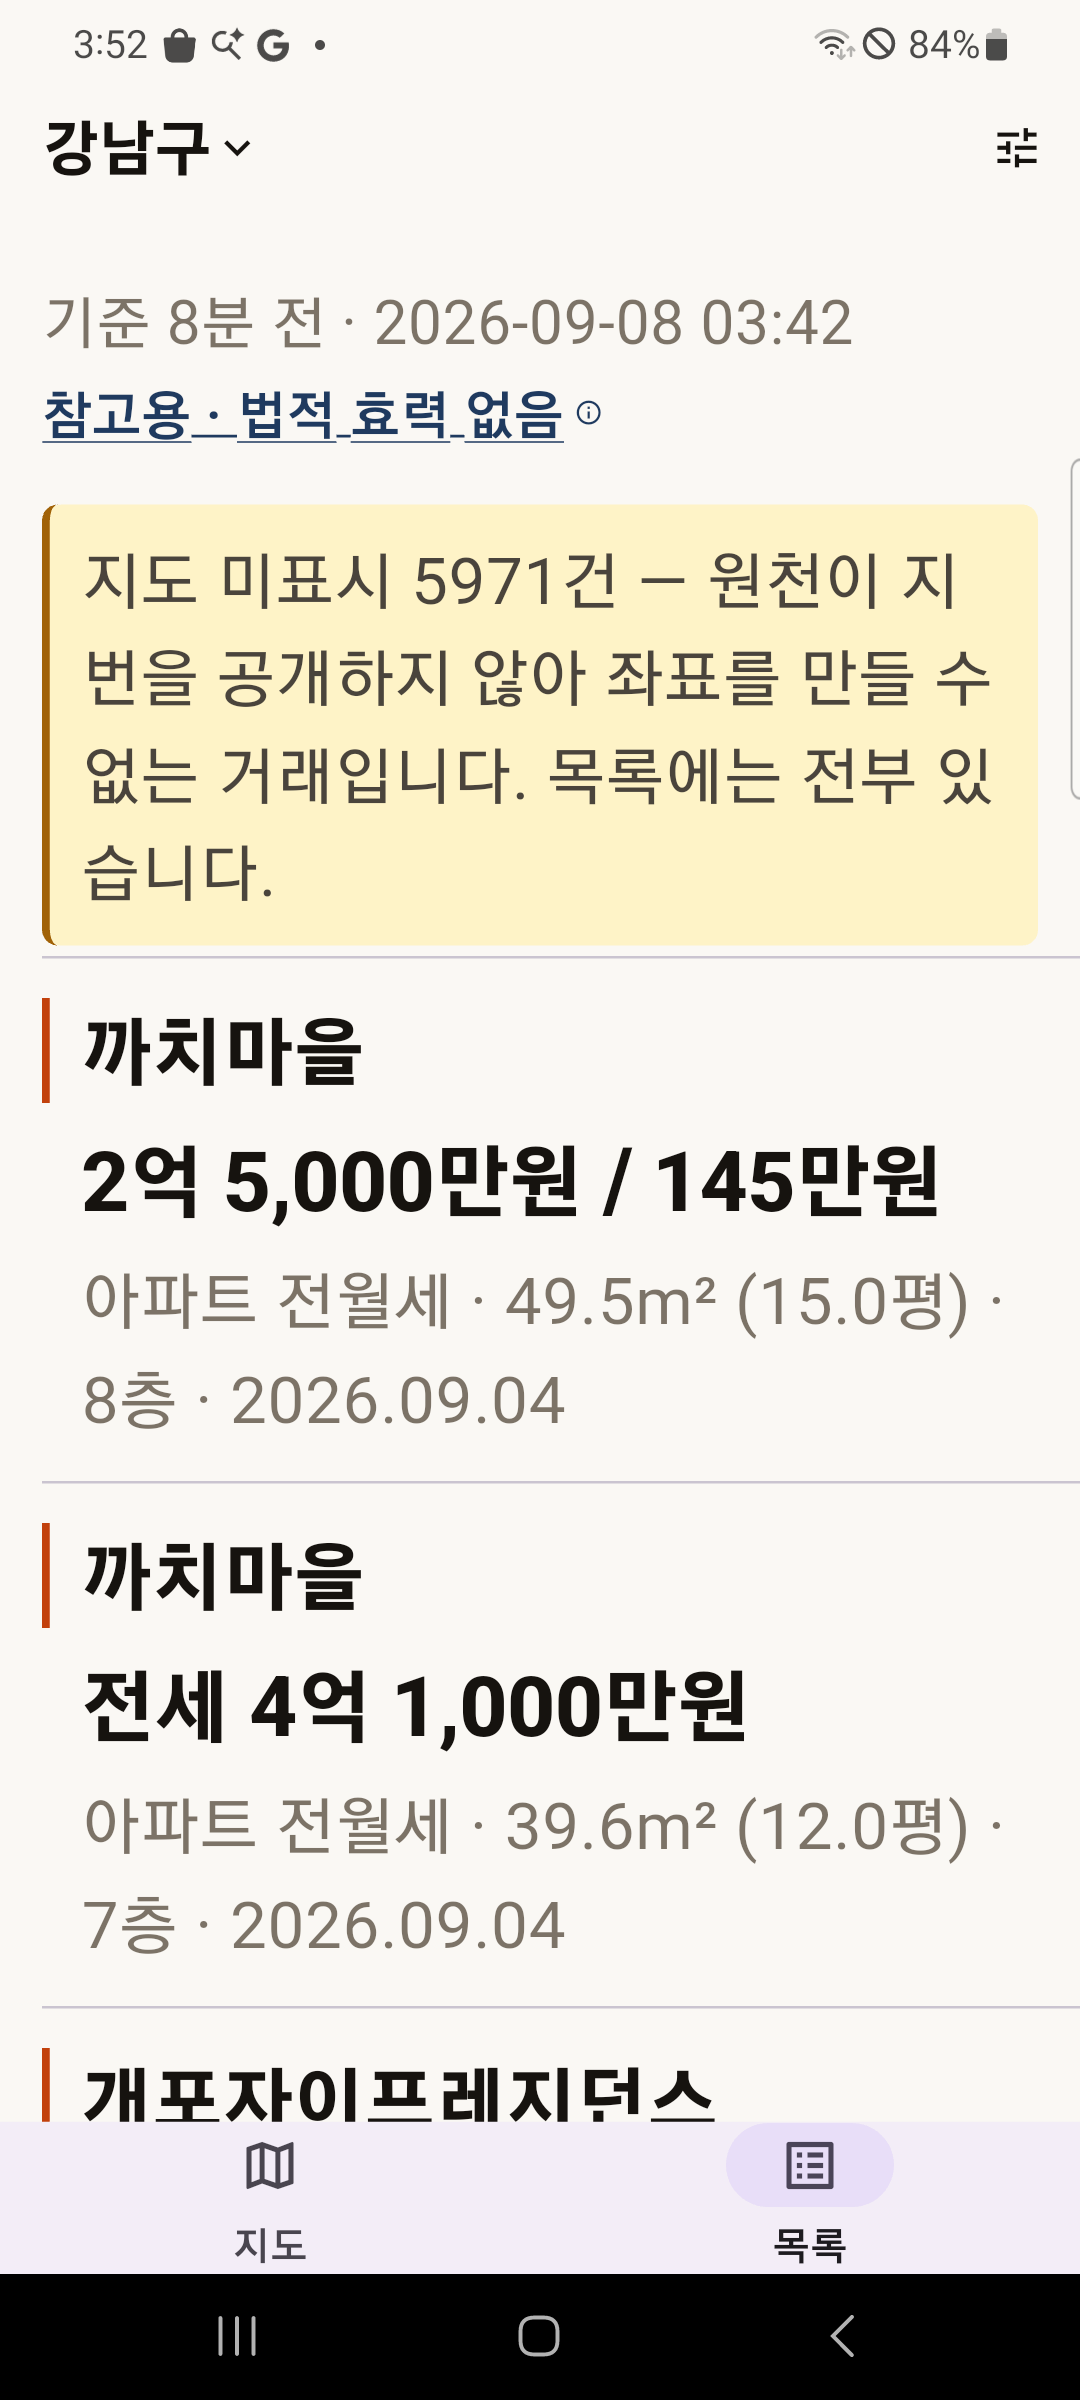
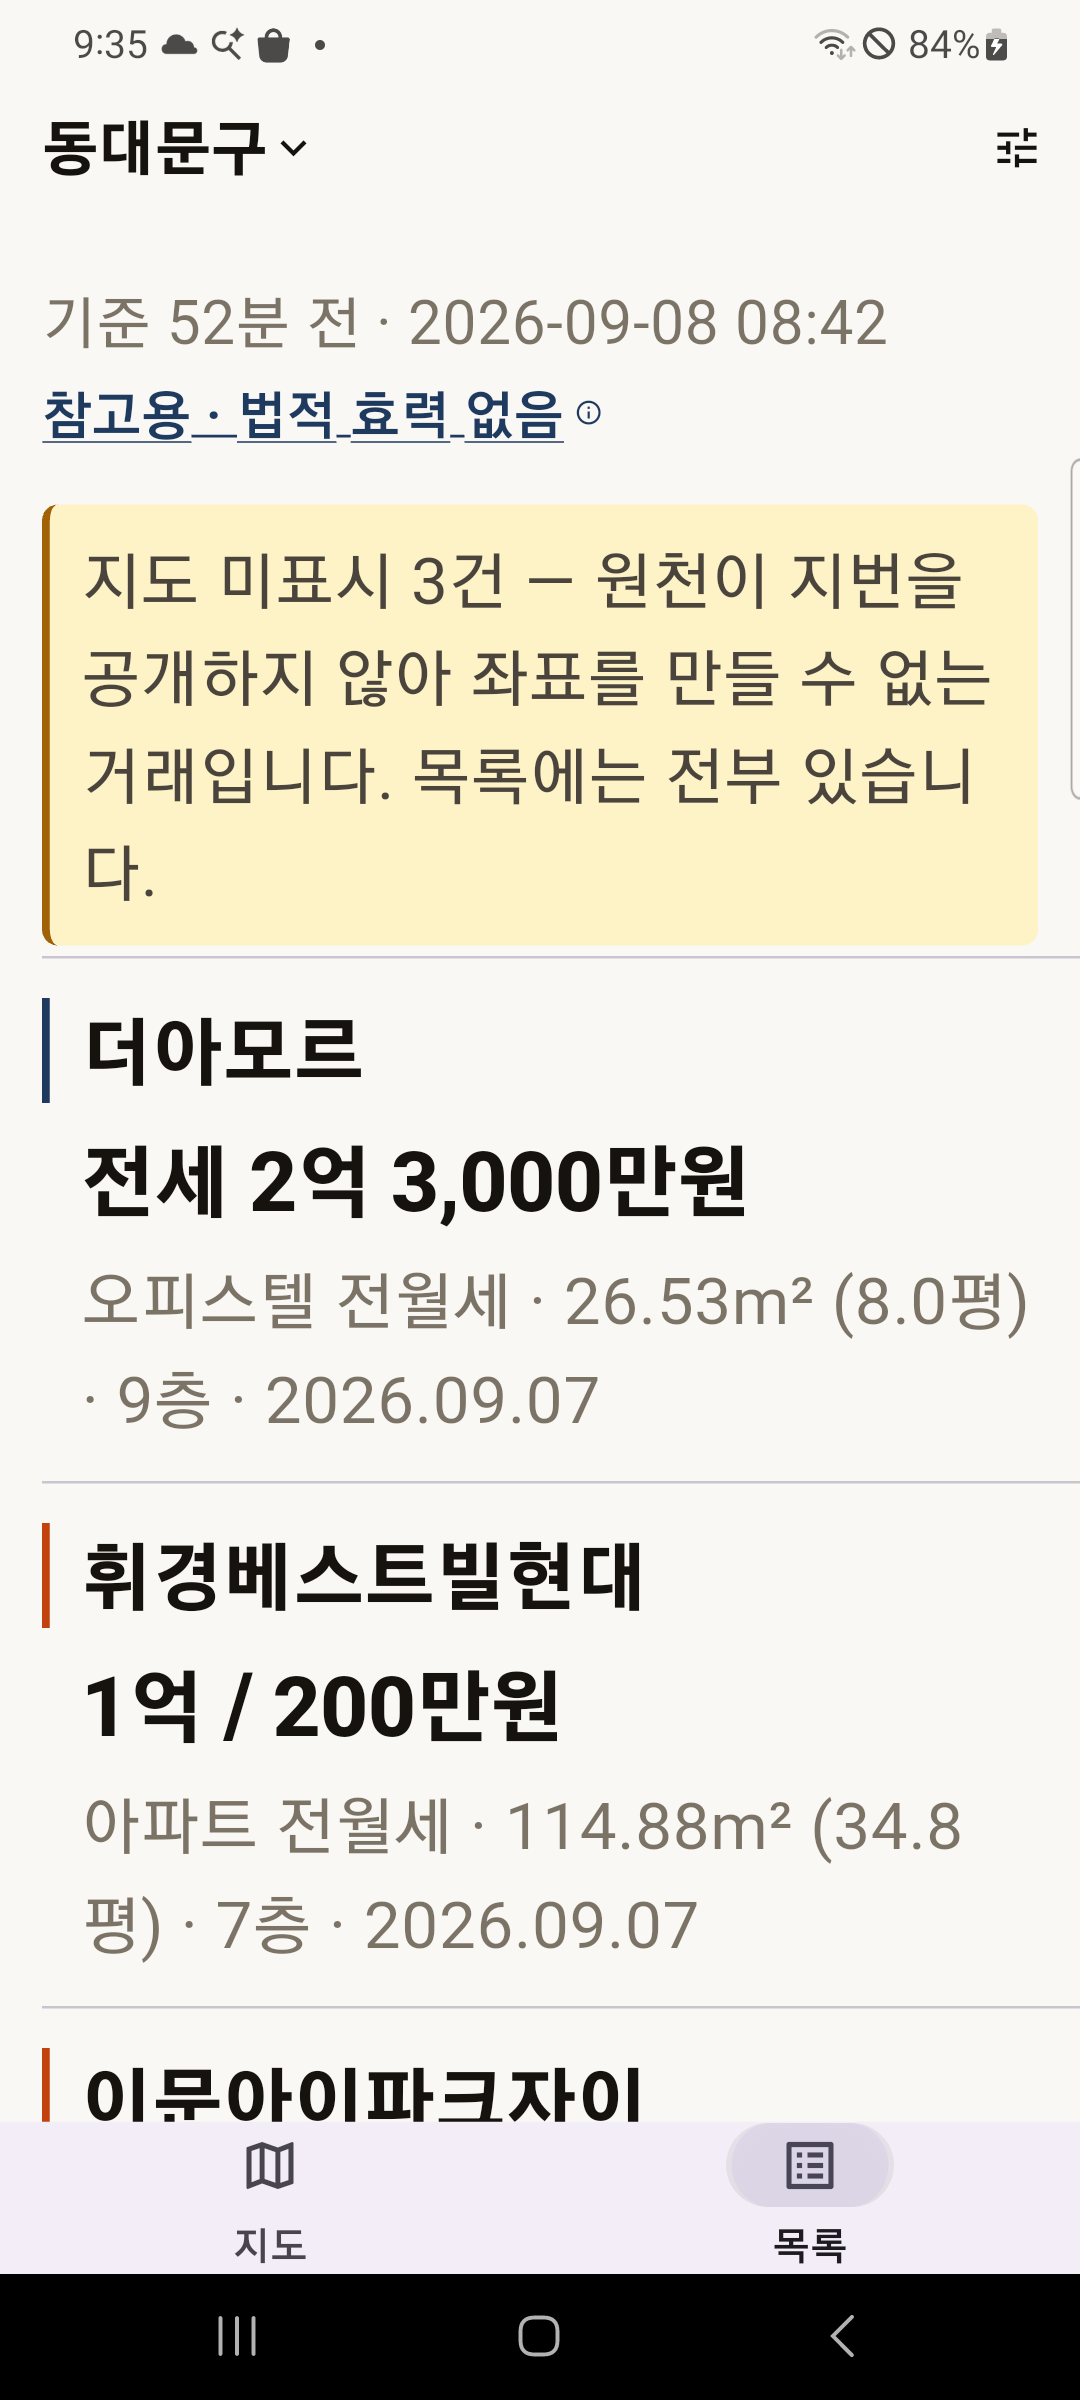
feat: 피처 그래픽(1024x500)을 만들고 스크린샷을 출시 빌드 것으로 바꾼다
Play 스토어 목록에 필수인 피처 그래픽이 없었다. 없으면 등록을 못 넘긴다.
make_icons.py에 넣어 아이콘과 같은 규칙(핀 + 원화 + 격자, 앱 팔레트)으로 그린다.

글자 크기를 눈으로 맞췄더니 부제가 오른쪽 밖으로 잘려 나갔다. fitted_font가
실제 폭을 재서 들어갈 때까지 줄인다 — 문구가 바뀌어도 조용히 넘치지 않는다.
Play가 이 위에 앱 이름을 겹쳐 그릴 수 있어 오른쪽 6%는 비워 둔다.

스크린샷은 **출시 빌드**(R8 난독화)에서 실데이터로 다시 찍었다. 이전 것은
지역 한정 수정 전이라 지도가 남의 동네를 보여줄 수 있는 상태였다.
지역 선택 화면(전국 256개 시군구)을 6번으로 추가했다.

diff --git a/app/tool/make_icons.py b/app/tool/make_icons.py
@@ -56,6 +56,68 @@ def won(draw, size, cx, cy, h, color):
         draw.text((cx, cy), 'W', font=f, fill=color, anchor='mm')
 
 
+def fitted_font(draw, text, path, start_px, max_w):
+    """[max_w] 안에 들어가는 가장 큰 글자 크기를 찾는다.
+
+    눈으로 맞춘 크기는 글자가 바뀌면 조용히 넘친다. 실제로 한 번 넘겨 보고
+    알았다 — 부제가 오른쪽 밖으로 잘려 나갔다. 재서 줄인다.
+    """
+    px = start_px
+    while px > 8:
+        try:
+            f = ImageFont.truetype(path, px)
+        except OSError:
+            return ImageFont.load_default()
+        if draw.textlength(text, font=f) <= max_w:
+            return f
+        px -= 2
+    return ImageFont.truetype(path, 8)
+
+
+def feature_graphic(w=1024, h=500):
+    """Play 스토어 목록 상단에 걸리는 피처 그래픽.
+
+    **크기가 1024x500으로 고정이다.** 다른 크기는 콘솔이 받지 않는다.
+
+    Play는 이 이미지 위에 앱 이름을 겹쳐 그릴 때가 있다. 그래서 글자를
+    가운데 몰아 넣지 않는다 — 겹치면 둘 다 못 읽는다. 아이콘은 왼쪽,
+    글자는 그 오른쪽에 두고 오른쪽 여백을 비워 둔다.
+    """
+    W, H = w * SS, h * SS
+    img = Image.new('RGBA', (W, H), INK)
+    d = ImageDraw.Draw(img)
+
+    # 격자는 세로 기준으로 잡는다. 가로로 잡으면 칸이 납작해져 지도로 안 보인다.
+    step = H // 4
+    lw = max(1, H // 220)
+    x = step
+    while x < W:
+        d.line([(x, 0), (x, H)], fill=RULE, width=lw)
+        x += step
+    y = step
+    while y < H:
+        d.line([(0, y), (W, y)], fill=RULE, width=lw)
+        y += step
+
+    # 핀은 왼쪽에. 아이콘과 같은 규칙으로 그려야 같은 앱으로 보인다.
+    cx = W * 0.115
+    r = H * 0.21
+    cy = H * 0.42
+    pin(d, cx, cy, r, cy + r * 1.55, ACCENT)
+    won(d, W, cx, cy, int(r * 1.15), PAPER)
+
+    title = '실거래가 지도'
+    subtitle = '국토교통부 실거래가를 지도 위에 그대로'
+    left = W * 0.25
+    avail = W * 0.94 - left           # 오른쪽 6%는 비워 둔다
+    big = fitted_font(d, title, FONT, int(H * 0.19), avail)
+    small = fitted_font(d, subtitle, FONT, int(H * 0.075), avail)
+    d.text((left, H * 0.40), title, font=big, fill=PAPER, anchor='lm')
+    d.text((left, H * 0.63), subtitle, font=small,
+           fill=(0xC9, 0xC2, 0xB6, 255), anchor='lm')
+    return img.resize((w, h), Image.LANCZOS)
+
+
 def foreground(size, safe=0.62):
     """적응형 아이콘의 앞면. 안쪽 [safe] 비율 밖은 잘려 나갈 수 있다."""
     img = Image.new('RGBA', (size * SS, size * SS), (0, 0, 0, 0))
@@ -110,3 +172,5 @@ for name, px in ADAPTIVE.items():
     save(background(px), os.path.join(RES, f'mipmap-{name}', 'ic_launcher_background.png'))
 print('스토어')
 save(legacy(512), os.path.join(STORE, 'icon-512.png'))
+# 피처 그래픽은 Play 스토어 목록의 필수 항목이다. 없으면 등록을 못 넘긴다.
+save(feature_graphic(), os.path.join(STORE, 'feature-1024x500.png'))
